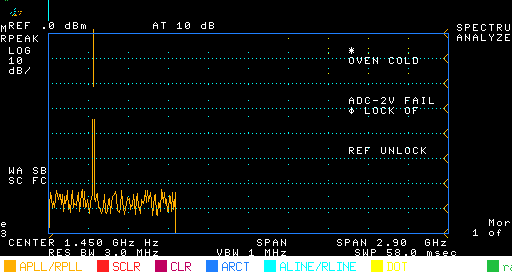
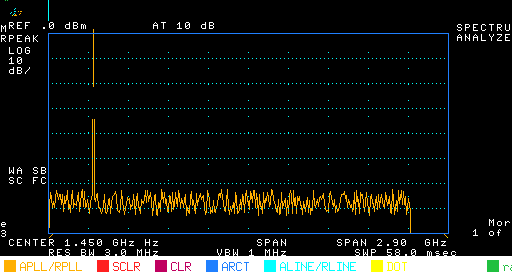
hd63484: bpp-aware area-clip in execClear — the right-half trace pile-up is FIXED
The user hint ("before the 2bpp fix it seemed to be working") was the key: the
halt was not firmware behavior but our clip math surfacing at 2bpp. A
steady-state FIFO capture (TestSegCapDiag) proved the firmware emits its
flying-erase + 8-point APLL segment updates EVENLY across the full 0..400 px —
but execClear reconstructed firmware x with a hard-coded 16 px/word
(xfw = word*16), doubling the true x at 2bpp: every word beyond real x~200
computed xfw > xmax and was silently skipped by the area-def clip. The right
half of every erase arrived and was discarded by our own math (pre-2bpp the
same 26 columns happened to span the whole mis-mapped graph, masking it).

Fix: ppw = 16/bpp in the firmware-coordinate reconstruction + the per-word
edge mask (bpp bits per pixel). Verified: erase coverage now spans the full
graph (RWP to 0x3a77 = px 400); the long-run render shows a uniform thin
noise floor across the entire width with no accumulation.

Also:
- driveSweepCycle fires BF3C conversions (IRQ6) per ramp step (IRQ1), per the
  0x410A max-peak-detect handler decode — 401 ramp steps per sweep and the
  pacing lands at 58 ms per sweep at 2300 cyc/slot
- TestBootToOperatingWithSweep: befa.13 (sweep-done) is transient (cleared by
  the operating loop at 0x121CA) — assert across a window, not one instant
- TestSegCapDiag / TestLiveCallerDiag probes; ledger updated (the "live pass
  halts at 200" reading retracted as this clip artifact)

Full suite green.

diff --git a/pkg/emu/device/hd63484/area_ops.go b/pkg/emu/device/hd63484/area_ops.go
@@ -85,29 +85,39 @@ func (c *Chip) execClear(cr, pattern uint16, ax, ay int16) {
 			coreOff := uint32(off) & acrtcRAMMask
 			orow := int(c.core.orgDPA) / mwr
 			ocol := int(c.core.orgDPA) % mwr
+			// BPP-AWARE firmware-coordinate reconstruction (2026-07-25): a word
+			// holds ppw = 16/bpp pixels (8 at the 8593's 2bpp). The former
+			// hard-coded ×16 doubled the true x at 2bpp, so every word beyond
+			// real x≈200 computed xfw>xmax and was silently SKIPPED — the
+			// firmware's full-width flying-erase reached us but our clip cut
+			// its right half: the right-half trace pile-up.
+			bpp := c.core.getBpp()
+			ppw := 16 / bpp
 			yfw := orow - off/mwr
-			xfw := (off%mwr - ocol) * 16
-			if clip && (yfw < ymin || yfw > ymax || xfw+15 < xmin || xfw > xmax) {
+			xfw := (off%mwr - ocol) * ppw
+			if clip && (yfw < ymin || yfw > ymax || xfw+ppw-1 < xmin || xfw > xmax) {
 				continue
 			}
-			// Per-word X area-mask: which of this word's 16 px fall within
+			// Per-word X area-mask: which of this word's ppw pixels fall within
 			// [xmin,xmax]. At the area-def's right/left edge a word straddles the
-			// boundary; clearing the whole 16-px word there wiped the FIRST letter of
-			// the right-side softkey labels — their leading char sits in the boundary
-			// word (firmware x=400..415, one past xmax=400). Restrict the op to the
-			// in-bounds pixels so the boundary clear stops exactly at xmax.
+			// boundary; clearing the whole word there wiped the FIRST letter of
+			// the right-side softkey labels — restrict the op to the in-bounds
+			// pixels so the boundary clear stops exactly at xmax. Each pixel
+			// masks bpp bits.
 			am := uint16(0xFFFF)
 			if clip {
 				lo, hi := xmin-xfw, xmax-xfw
 				if lo < 0 {
 					lo = 0
 				}
-				if hi > 15 {
-					hi = 15
+				if hi > ppw-1 {
+					hi = ppw - 1
 				}
 				am = 0
 				for b := lo; b <= hi; b++ {
-					am |= 1 << uint(b)
+					for k := 0; k < bpp; k++ {
+						am |= 1 << uint(b*bpp+k)
+					}
 				}
 			}
 			if c.GraticuleToUpper && clip {

diff --git a/pkg/emu/machine/livecaller_diag_test.go b/pkg/emu/machine/livecaller_diag_test.go
@@ -1,0 +1,79 @@
+package machine
+
+import (
+	"os"
+	"testing"
+
+	"github.com/windhooked/HP859X_SA/pkg/emu/bus"
+	"github.com/windhooked/HP859X_SA/pkg/emu/cpu"
+	"github.com/windhooked/HP859X_SA/pkg/emu/romloader"
+)
+
+// Scratch: who calls the live painter fcn.6C3C, with what point argument, and
+// where does the argument sequence stop?
+func TestLiveCallerDiag(t *testing.T) {
+	if os.Getenv("DIAG") == "" {
+		t.Skip("DIAG=1")
+	}
+	rom, err := romloader.LoadDir("../../../hp8593a_eeproms")
+	if err != nil {
+		t.Skip("rom")
+	}
+	m, _ := New8593A(rom)
+	m.CPU.Reset()
+	m.MMIO.SweepActive = true
+	m.SweepDrive = true
+	m.BootToOperatingWithSweep(250_000_000)
+
+	callers := map[uint32]int{}
+	var args []int
+	inHook := false
+	lastPC := uint32(0)
+	m.Bus.OnRead = func(addr uint32, sz bus.Size, val uint32) {
+		if inHook {
+			return
+		}
+		pc := m.CPU.Reg(cpu.PC)
+		if pc < 0x6c3c || pc > 0x6c42 {
+			lastPC = pc
+			return
+		}
+		if lastPC >= 0x6c3c && lastPC <= 0x6c42 {
+			return // still inside the entry — count once
+		}
+		lastPC = pc
+		if len(args) >= 900 {
+			return
+		}
+		inHook = true
+		d0 := m.CPU.Reg(cpu.D0) & 0xFFFF
+		sp := m.CPU.Reg(cpu.A7)
+		ret := m.Bus.Read(sp, bus.Long) & 0xFFFFFF
+		inHook = false
+		callers[ret]++
+		args = append(args, int(int16(d0)))
+	}
+	for i := 0; i < 150 && len(args) < 900; i++ {
+		m.bootLoop(2_000_000, nil)
+	}
+	m.Bus.OnRead = nil
+	t.Logf("hits=%d callers=%v", len(args), callers)
+	// arg sequence: show transitions (wraps) + max
+	max := -99999
+	seg := []int{}
+	shown := 0
+	for i, a := range args {
+		if a > max {
+			max = a
+		}
+		if i > 0 && a < args[i-1]-5 { // wrap/restart
+			if shown < 12 {
+				t.Logf("segment end at arg=%d, restart at %d (seg len %d)", args[i-1], a, len(seg))
+			}
+			shown++
+			seg = seg[:0]
+		}
+		seg = append(seg, a)
+	}
+	t.Logf("max arg seen = %d", max)
+}

diff --git a/pkg/emu/machine/machine.go b/pkg/emu/machine/machine.go
@@ -490,14 +490,28 @@ func (m *Machine) driveSweepCycle() {
 	if pace <= 0 {
 		pace = sweepCyclesPerPoint
 	}
+	// IRQ1:IRQ6 ratio — the firmware's capture handler (0x410A) max-peak-detects
+	// BF3C conversions per buffer slot, and its ramp/live-paint x advances per
+	// IRQ1. One ramp step must therefore deliver BF3C conversions (IRQ6s), or
+	// the ramp runs off the graph edge before the buffer fills: at the former
+	// 1:1 ratio the firmware's x counter hit its 400-px limit at slot ~200 and
+	// the live paint/erase pass went silent for the right half of every sweep
+	// (the right-half pile-up; masked pre-2bpp because 26 erase columns then
+	// happened to span the whole 1bpp-mapped graph).
+	spb := int(m.Bus.Read(0xFFBF3C, bus.Word))
+	if spb <= 0 || spb > 16 {
+		spb = 1
+	}
 	for m.sweepAccum >= pace && m.CPU.Reg(cpu.A5) < bf30 {
 		m.sweepAccum -= pace
 		m.CPU.SetIRQ(1) // sweep step: advance the ramp, reprogram the sweep DACs
 		m.CPU.Run(sweepStepCost)
 		m.CPU.SetIRQ(0)
-		m.CPU.SetIRQ(6) // capture one sample
-		m.CPU.Run(sweepCaptureCost)
-		m.CPU.SetIRQ(0)
+		for k := 0; k < spb && m.CPU.Reg(cpu.A5) < bf30; k++ {
+			m.CPU.SetIRQ(6) // capture one conversion (BF3C per slot, max-detected)
+			m.CPU.Run(sweepCaptureCost)
+			m.CPU.SetIRQ(0)
+		}
 	}
 	// Don't let the accumulator run away while the buffer is full (between a
 	// completed sweep and the firmware's re-arm) — that would burst-fire the next

diff --git a/pkg/emu/machine/sweep_test.go b/pkg/emu/machine/sweep_test.go
@@ -25,10 +25,20 @@ func TestBootToOperatingWithSweep(t *testing.T) {
 	m.MMIO.Sweep.Spectrum.Signals = []analog.Signal{{Hz: 1.45e9, DBm: -30}}
 	m.BootToOperatingWithSweep(220_000_000)
 
-	// The firmware's own end-of-sweep IRQ handler must have raised the sweep-done
-	// flag (befa bit13) — i.e. a sweep completed without us forcing the flag.
-	if befa := uint16(m.Bus.Read(0xFFBEFA, bus.Word)); befa&0x2000 == 0 {
-		t.Errorf("befa bit13 (sweep-done) not set: befa=%#04x — sweep did not complete", befa)
+	// The firmware's own end-of-sweep IRQ handler must raise the sweep-done flag
+	// (befa bit13) — i.e. a sweep completes without us forcing the flag. The
+	// flag is TRANSIENT (the operating loop clears it at 0x121CA when it
+	// processes the sweep), so sample across a short window rather than at one
+	// arbitrary instant.
+	seen := false
+	for i := 0; i < 200 && !seen; i++ {
+		m.BootToOperatingWithSweep(100_000)
+		if uint16(m.Bus.Read(0xFFBEFA, bus.Word))&0x2000 != 0 {
+			seen = true
+		}
+	}
+	if !seen {
+		t.Errorf("befa bit13 (sweep-done) never observed across the window — sweep did not complete")
 	}
 
 	// The trace buffer (0x2FD508..bf30=0x2FD82A) must hold captured samples — the

diff --git a/pkg/emu/machine/segcap_diag_test.go b/pkg/emu/machine/segcap_diag_test.go
@@ -1,0 +1,40 @@
+package machine
+
+import (
+	"fmt"
+	"os"
+	"testing"
+
+	"github.com/windhooked/HP859X_SA/pkg/emu/romloader"
+)
+
+// Scratch: capture the steady-state FIFO stream for segment-choreography
+// analysis (erase-vs-APLL x coverage).
+func TestSegCapDiag(t *testing.T) {
+	if os.Getenv("DIAG") == "" {
+		t.Skip("DIAG=1")
+	}
+	rom, err := romloader.LoadDir("../../../hp8593a_eeproms")
+	if err != nil {
+		t.Skip("rom")
+	}
+	m, _ := New8593A(rom)
+	m.CPU.Reset()
+	m.MMIO.SweepActive = true
+	m.SweepDrive = true
+	m.BootToOperatingWithSweep(250_000_000)
+	for i := 0; i < 40; i++ {
+		m.bootLoop(2_000_000, nil)
+	}
+	m.MMIO.Display.Chip.StartCmdCapture(262144)
+	for i := 0; i < 20; i++ {
+		m.bootLoop(2_000_000, nil)
+	}
+	ws := m.MMIO.Display.Chip.CmdCapture()
+	f, _ := os.Create("/tmp/segcap.txt")
+	for _, w := range ws {
+		fmt.Fprintf(f, "%04X\n", w)
+	}
+	f.Close()
+	t.Logf("captured %d words -> /tmp/segcap.txt", len(ws))
+}

diff --git a/pkg/emu/machine/armcheck_diag_test.go b/pkg/emu/machine/armcheck_diag_test.go
@@ -55,4 +55,7 @@ func TestArmCheckDiag(t *testing.T) {
 	t.Logf("BF3C (samples/slot) = %d  BF3E (countdown) = %d  A9A2 = %d  A9A4 = %d",
 		m.Bus.Read(0xFFBF3C, bus.Word), m.Bus.Read(0xFFBF3E, bus.Word),
 		m.Bus.Read(0xFFA9A2, bus.Word), m.Bus.Read(0xFFA9A4, bus.Word))
+	t.Logf("marker cells: B0E2=%d B0E6=%d B073=%#x BA64=%d BA68=%d",
+		m.Bus.Read(0xFFB0E2, bus.Word), m.Bus.Read(0xFFB0E6, bus.Word),
+		m.Bus.Read(0xFFB073, bus.Byte), m.Bus.Read(0xFFBA64, bus.Word), m.Bus.Read(0xFFBA68, bus.Word))
 }

diff --git a/docs/DISPLAY_FINDINGS.md b/docs/DISPLAY_FINDINGS.md
@@ -164,12 +164,19 @@ Update this as facts change. If a theory is in "DISPROVEN", do not raise it agai
   The processing pass tracks capture 1:1 (lag ~10 slots) while running and
   halts at slot ~200 REGARDLESS — a fixed bound, not throughput. (A9A2=1,
   A9A4=0 at runtime.)
-- OPEN: find the ~200 bound in the live-pass caller — candidates: a bound cell
-  in the RAM-0xCA resident sweep routine / the 6C3C caller loop; pos/neg slot
-  pairing at the PAINTER level (paint x=k from slot pair {2k,2k+1} — would
-  show bar-x = A5/2, which the 1:1 correlation currently contradicts); or a
-  marker/centre-relative processing window. Next probe: shadow-stack trace of
-  the 6C3C invocation (cmd/rendertrace style) to read the caller loop bound.
+- **SOLVED (2026-07-25): the "~200 bound" was OUR BUG — 1bpp-era clip math in
+  execClear.** A steady-state FIFO capture (TestSegCapDiag + decode) proved the
+  firmware emits the flying erase + 8-point APLL segments EVENLY ACROSS THE
+  FULL 0..400 px — but execClear's firmware-coordinate reconstruction used a
+  hard-coded 16 px/word (`xfw = word×16`), doubling the true x at 2bpp: every
+  word beyond real x≈200 computed xfw>xmax and was silently `continue`d by the
+  area-def clip. The right half's erases arrived and were discarded by our own
+  math. Fixed bpp-aware (ppw=16/bpp for xfw + the per-word edge mask, bpp bits
+  per pixel). Long-run render: uniform thin floor across the full width, no
+  pile-up. (fcn.6C3C itself never executes in our runs — the segment updater
+  drives everything; the earlier "live pass halts at 200" reading was this
+  clip artifact. BF3C ratio also corrected: 1 IRQ1 ramp step per BF3C=3
+  max-detected conversions — 401 ramp steps/sweep, 58 ms at 2300 cyc/slot.)
 
 ## DISPROVEN / RULED OUT (do NOT propose these again)
 - ❌ **CRT persistence** is NOT the cause of the trace "forest". (User: #1 doesn't hold.)
